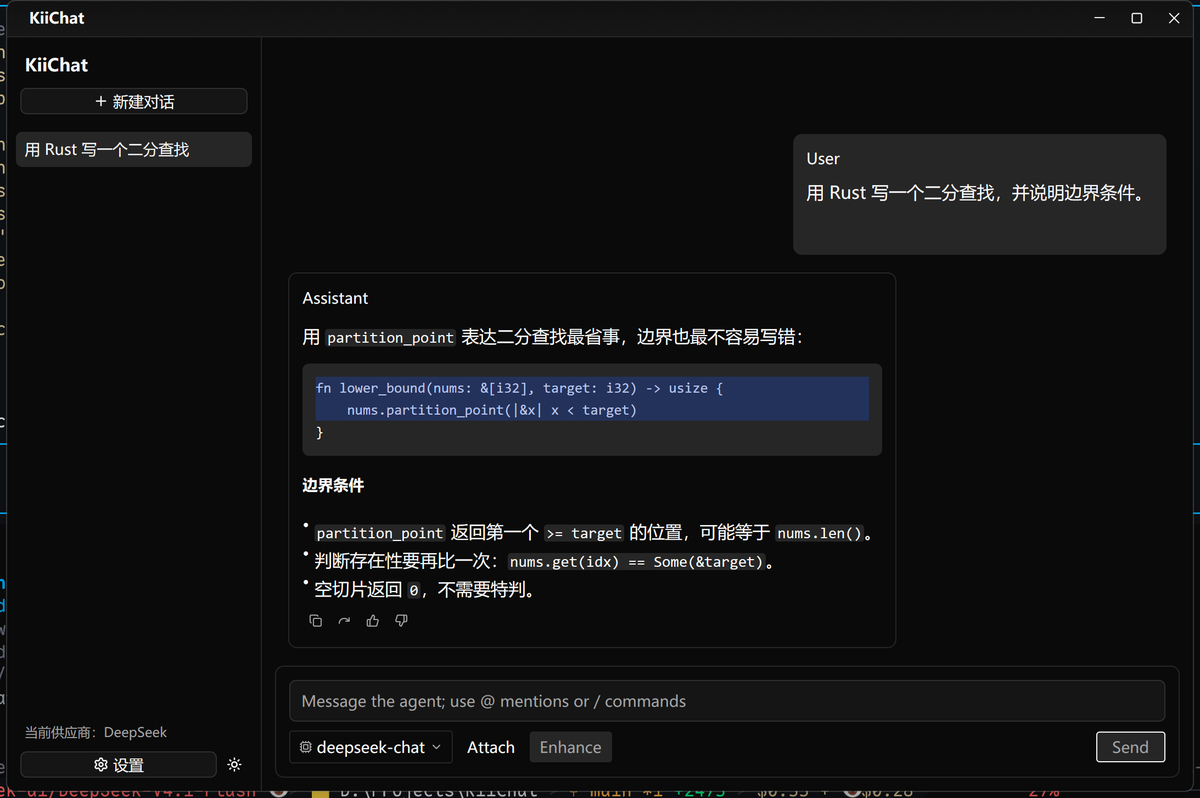
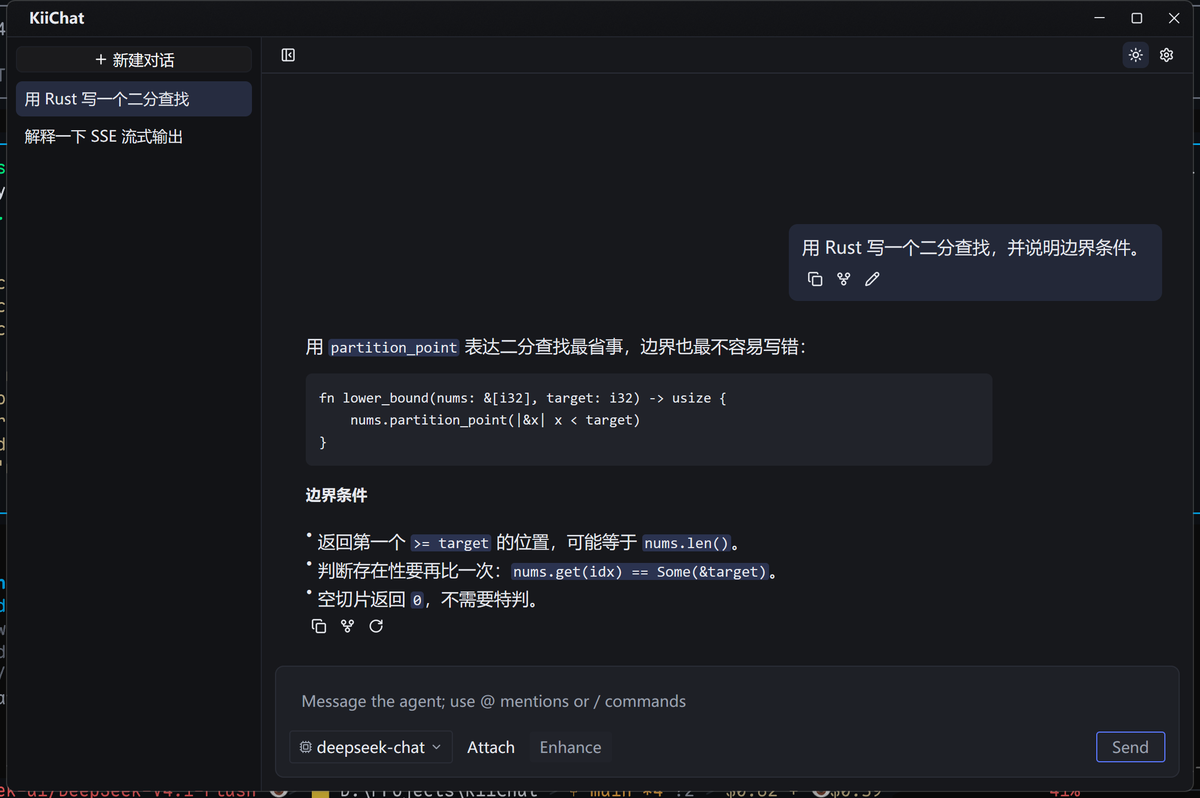
docs: refresh screenshots and describe the new shell

diff --git a/AGENTS.md b/AGENTS.md
@@ -12,16 +12,17 @@ binary, no server.
 
 ## Stack (do not mix versions)
 
-The UI stack is published as a set that moves together; mixing sets gives two
-incompatible copies of GPUI's types and fails to compile in confusing ways.
+The upstream UI stack is published as a set that moves together; mixing sets
+gives two incompatible copies of GPUI's types and fails to compile in confusing
+ways.
 
-| Crate | Cargo line | Role |
+| Crate | Cargo line | What this app uses from it |
 | --- | --- | --- |
-| `gpui-pre` | `gpui = { package = "gpui-pre", ... }` | Zed's GPUI, renamed so `use gpui::` works |
+| `gpui-pre` | `gpui = { package = "gpui-pre", ... }` | The framework; renamed so `use gpui::` works |
 | `gpui-pre-platform` | `gpui_platform = ...` | Window/application bootstrap per OS |
-| `gpui-component` | `gpui-component` | Theme, `Root`, `TitleBar`, Buttons, Inputs |
+| `gpui-component` | `gpui-component` | Theme + palette, `Root`, `TitleBar`, `Button`, `Input`, `TextView`, scroll helpers |
 | `gpui-kit-assets` | `gpui-component-assets = { package = "gpui-kit-assets", ... }` | Bundled Lucide icons |
-| `gpui-ai` | `gpui-ai` | `Chat` (virtualized transcript + composer), `PromptBar`, `StreamedContent` |
+| `gpui-ai` | `gpui-ai` | `PromptBar` (composer), `StreamingText` (streamed Markdown), `Orbs` (empty-conversation animation). Its `Chat` component is deliberately **not** used |
 
 Rules:
 
@@ -31,42 +32,75 @@ Rules:
 - `gpui_ai::init(cx)` once, before any window. It initializes gpui-component
   too, so never call `gpui_component::init` as well.
 - Every window's first-level view must be `gpui_component::Root`.
+- `gpui-ai`'s `Chat` was dropped because its message row is fixed: it always
+  renders a role heading, and its action row only offers
+  copy/regenerate/edit/feedback with icons. This app needs no role headings,
+  text actions (复制 / 分支 / 重试), a red 失败重试 state, and a branch action —
+  none of which the component exposes. The transcript is therefore built here.
 
 ## Layout
 
 ```
 src/main.rs    application bootstrap, window options, Root wiring
-src/app.rs     the whole view: sidebar, chat pane, settings page, streaming
-src/api.rs     OpenAI-compatible HTTP: /models, streaming /chat/completions
-src/store.rs   providers, sessions, messages, theme; JSON persistence
-scripts/       dev tooling: mock provider server, UI Automation helpers
+src/app.rs     the whole view: sidebar, transcript, composer, settings pages
+src/api.rs     OpenAI-compatible HTTP: /models, streaming /chat/completions, proxy modes
+src/icons.rs   asset source: the bundled icons plus the two glyphs they lack
+src/store.rs   providers, sessions, messages, theme, proxy; JSON persistence
+scripts/       dev tooling: fake provider server + UI Automation / capture helpers
 ```
 
 ## How the pieces fit
 
-- **The view owns all state.** `KiiChat` holds `Store` and hands `Chat` an
-  `Arc<[ChatMessage]>` snapshot. `gpui-ai` components render snapshots only.
-- **Message identity is the stored `Msg.id` (a uuid).** `Chat::set_messages`
-  silently ignores a snapshot with duplicate ids, so never synthesize ids from
-  indices.
+- **The view owns all state.** `KiiChat` holds `Store`; the transcript is a
+  `gpui::ListState` (variable-height rows, `FollowMode::Tail`) rendered by
+  `render_row`. No message snapshot type exists any more.
+- **Message identity is the stored `Msg.id` (a uuid).** Element ids derive from
+  it; never synthesize ids from indices alone.
 - **Streaming never runs on the UI thread.** `api::stream_chat` spawns a thread
   with its own current-thread tokio runtime (reqwest needs a tokio reactor;
   GPUI runs on smol) and pushes `StreamEvent`s over an `async_channel`. The UI
-  task consumes them via `update_in`, which is where the `&mut Window` needed
-  by `Chat::set_messages` comes from.
+  task consumes them via `update_in`.
+- **List invalidation is explicit.** A delta calls
+  `transcript.remeasure_items(row..row + 1)`; structural changes call
+  `sync_transcript`, which resets the item count and only follows the tail when
+  the reader is already at the tail (`force_follow` is for session switches and
+  sends).
+- **The list element needs an explicit size.** `list(...)` is a custom element:
+  without `.size_full()` it lays out to zero height and paints nothing.
 - **Persist on transitions, not on deltas.** `Store::save` after a send
-  completes, a session/provider changes, or the theme changes — never per SSE
-  chunk.
-- **Errors surface in the UI.** Failed assistant messages are stored with
-  `Msg.error`, rendered as a failed bubble, and marked `retryable(true)` so
-  Chat's Retry button reports `ChatEvent::RetryRequested`, which re-runs the
-  completion.
+  completes, a session/provider/theme/proxy changes — never per SSE chunk.
+- **Proxy modes are resolved per request** in `api::client`: `System` keeps
+  reqwest's default (env + OS proxy), `None` calls `.no_proxy()`, `Custom`
+  installs `reqwest::Proxy::all(url)`. An empty custom URL is an error, not a
+  silent fallback.
+- **Errors surface in the UI.** A failed reply is stored in `Msg.error`, shown
+  inside the bubble with a red border, and its retry action becomes a red
+  "失败重试" text button.
+- **Palette overrides must be re-applied after every theme change.**
+  `Theme::change` re-applies the active theme JSON, wiping color edits, so
+  `apply_theme` changes the mode first, then writes the palette into
+  `Theme::global_mut(cx).colors`, then `Theme::sync_base` + `window.refresh`.
+  Token order in `colors_of` and both palette arrays must stay in step.
+- **Two icons are embedded by this app.** The bundled component icon set is a
+  curated 101-glyph subset with no branch and no pencil, so `src/icons.rs`
+  wraps `gpui_component_assets::Assets` and serves `icons/kiichat-*.svg` from
+  string constants. GPUI rasterizes SVGs as alpha masks tinted with the text
+  color, so a stroke-based SVG needs no color handling. Reference them with
+  `Icon::empty().path(icons::GIT_FORK_PATH)`; `gpui_component::IconName` only
+  carries the curated set.
+- **Actions are icon-only square buttons** (`复制` / `分支` / `重试`, plus `编辑`
+  on user messages). Every icon-only control carries `.tooltip(...)` and
+  `.accessibility_label(...)`, which is also how the verification scripts find
+  it. A failed reply's retry grows a red `重试` label.
+- **Editing a user message re-sends it.** Saving the inline editor rewrites the
+  message, drops every reply after it, and launches a fresh completion.
 - **Client-side decorations.** The window is created from
-  `TitleBar::window_options()` and `KiiChat::render` emits `TitleBar` as the
-  first child. Without it the title bar disappears and the window cannot be
-  dragged.
-- **Layout guards.** The `Chat` host needs `.flex_1().min_h_0()`; text that
-  shrinks needs `.min_w_0()`.
+  `TitleBar::window_options()` and the root view emits `TitleBar` as its first
+  child. Without it the title bar disappears and the window cannot be dragged.
+  Controls placed *inside* the title bar receive no clicks (its drag region
+  covers them), so the sidebar / theme / page toggles live in the toolbar the
+  main pane renders above its content — visible on both pages and while the
+  sidebar is folded away.
 
 ## Conventions
 
@@ -84,58 +118,68 @@ cargo build                 # debug
 cargo run                   # launch the window
 cargo build --release       # shipped binary
 cargo clippy --all-targets  # must stay clean
-cargo test                  # unit tests (API URL/SSE parsing)
 ```
 
 Config lives at `%APPDATA%\KiiChat\config.json` (Windows),
-`~/.config/KiiChat/config.json` (Linux), `~/Library/Application Support/KiiChat/config.json`
-(macOS). Deleting it resets the app.
+`~/.config/KiiChat/config.json` (Linux),
+`~/Library/Application Support/KiiChat/config.json` (macOS). Deleting it resets
+the app.
 
 ## Verifying a change
 
-GPUI has no headless test harness for real frames here, so verify against the
-running app. Release builds cannot be verified by reasoning; launch it.
+GPUI has no headless frame test here, so verify against the running app. A clean
+compile proves nothing about layout.
 
 1. **Launch and read the accessibility tree** (Windows):
 
    ```powershell
-   powershell -ExecutionPolicy Bypass -File scripts/uia.ps1
+   powershell -ExecutionPolicy Bypass -File scripts/uia.ps1              # full tree
+   powershell -ExecutionPolicy Bypass -File scripts/buttons.ps1 -MinY 0  # buttons, decoded names
    ```
 
-   It prints control type, accessible name and geometry for every element, which
-   is enough to confirm panes, buttons, composer state and message rows exist.
+   `buttons.ps1` writes UTF-8 to `%TEMP%\kiichat-buttons.txt` because the
+   console mangles Chinese; read that file. It is the fastest way to confirm
+   that rows, actions and settings controls really rendered.
 
 2. **Drive it without a keyboard.** `scripts/invoke.ps1 -Name <label>` invokes a
-   named button through UI Automation (use `-NameB64` for Chinese labels to
-   dodge console encoding). Use it to exercise flows such as Retry.
+   named button through UI Automation (use `-NameB64` for Chinese labels, e.g.
+   `5aSx6LSl6YeN6K+V` is 失败重试 — the base64 of the UTF-8 name).
+   `scripts/click.ps1 -X -Y` synthesizes a real click and sets DPI awareness
+   first; without that a 200%-scaled desktop aims at half the intended point.
 
 3. **Exercise the network path against a fake provider**:
 
    ```sh
-   python scripts/mock_openai.py      # serves /v1/models and a streaming completion on 127.0.0.1:18080
+   python scripts/mock_openai.py   # /v1/models plus a streaming completion on 127.0.0.1:18080
    ```
 
    Point a provider's Base URL at `http://127.0.0.1:18080/v1`, then check the
    server log for the request and `%APPDATA%\KiiChat\config.json` for the
-   persisted streamed answer — that is proof the whole path ran.
+   persisted streamed answer.
 
-4. **Screenshots** (visual confirmation):
+4. **Verify visually without eyes.** Capture, then measure:
 
    ```powershell
-   powershell -ExecutionPolicy Bypass -File scripts/capture.ps1
+   powershell -ExecutionPolicy Bypass -File scripts/capture.ps1 -Out D:/tmp/shot.png
    ```
+
+   The capture is the window at its true pixel size (the script sets DPI
+   awareness), while UI Automation reports *screen* coordinates — subtract the
+   window origin before sampling a control's pixels. Compare mean luminance
+   between light and dark frames, and check a specific rect's pixels for the
+   expected ink (a red retry label, a pale blue bubble).
 
 Hard rules for verification:
 
 - Never claim a UI change works from a clean compile alone.
 - Never leave `target/kiichat.exe` locked: stop the running app before rebuilding.
-- The app writes to the real user config; if you seed it for a test, say so and
-  restore or delete it afterwards.
+- The app writes to the real user config. If you seed it for a test, say so and
+  restore the previous file afterwards.
 
 ## Repository hygiene
 
 - `target/` must never be tracked (`git ls-files | grep -c '^target/'` is 0).
-- Keep commits scoped and written as `type: summary` (`feat:`, `fix:`, `docs:`,
-  `chore:`).
+- Commit after each verified change, as `type: summary` (`feat:`, `fix:`,
+  `docs:`, `chore:`), and push.
 - Keep README's feature list and the GitHub description/topics in sync with what
   the app actually does.

diff --git a/README.md b/README.md
@@ -11,13 +11,23 @@
 
 </details>
 
+<details>
+<summary>设置 · 模型</summary>
+
+![设置页](docs/screenshot-models.png)
+
+</details>
+
 ## 功能
 
-- **供应商管理**：填写 Base URL 与 API Key，点一次「获取模型」从 `{base_url}/models` 拉取模型列表；可保存多个供应商，竖向列表切换，随时「设为当前」。
+- **模型供应商**：填写 Base URL 与 API Key，点一次「获取模型」从 `{base_url}/models` 拉取模型列表；竖向列表维护多个供应商，随时切换「当前」。
 - **会话管理**：左侧竖向会话列表，新建 / 切换 / 删除，标题自动取自第一条消息。
-- **流式对话**：SSE 逐字输出，Markdown 渲染（含代码块高亮）；消息可复制、就地编辑、重新生成；失败的消息带「重试」按钮，失败原因直接显示在气泡里。
-- **深浅色主题**：一键切换并持久化。
-- **自绘标题栏**：无系统边框，窗口控件与主题配色一致。
+- **流式对话**：SSE 逐字输出，Markdown 渲染（含代码块高亮）；消息下方的方形图标按钮提供「复制 / 分支 / 重试」，用户消息另外可以「编辑」并重发。回复失败时重试按钮会展开成红色的「重试」，失败原因直接显示在气泡里。
+- **折叠侧边栏**：一键收起会话列表，专注当前对话，状态会记住。
+- **分支会话**：以任意一条消息为起点分叉出一个新会话，原会话保持不变。
+- **代理设置**：跟随系统（读系统与环境变量）、不使用代理、自定义代理（例如 `http://127.0.0.1:7890`）三选一。
+- **深浅色主题**：一键切换并持久化，使用 DeepSeek 官网风格的浅蓝配色。
+- **自绘标题栏**：无系统边框，窗口控件与主题配色一致；窗口标题只在标题栏出现，侧边栏不再重复。
 - **纯本地**：全部状态存于一个 JSON 文件，没有服务端、没有账号、没有遥测。
 - **单文件二进制**，启动即用。
 
@@ -41,10 +51,11 @@ cargo run --release
 
 ## 使用
 
-1. 左下角点「设置」→ 供应商 → 「添加供应商」，填名称、Base URL、API Key。
+1. 左下角点「设置」，进入 **模型** 分项，点「添加供应商」，填名称、Base URL、API Key。
    Base URL 填接口根地址即可，例如 `https://api.openai.com/v1`；只填 `https://api.deepseek.com` 会自动补上 `/v1`。
 2. 点「获取模型」拉取该接口的模型列表，再点「保存」。
 3. 回到对话，在输入框左下角选择模型，输入内容后回车发送。
+4. 网络需要代理时，到 **网络** 分项选择「自定义代理」并填地址（如 `http://127.0.0.1:7890`），点「应用」。
 
 ## 兼容性
 
@@ -59,7 +70,8 @@ cargo run --release
 
 - 只有对话：没有工具调用、图片、文件附件、语音。
 - 不显示 reasoning / 思考过程，只渲染最终回答。
-- 没有系统提示词、temperature 等参数的自定义。
+- 没有系统提示词、temperature 等参数的自定义；不发多轮以外的上下文。
+- 分支只是复制已有消息到新会话，不共享后续对话。
 - 单窗口；会话历史整体存在一个 JSON 文件里，不会分页或归档。
 
 ## 开发
@@ -72,20 +84,20 @@ cargo run                    # 启动窗口
 cargo clippy --all-targets   # 静态检查
 ```
 
-`scripts/` 下是开发期工具，用于在没有键盘/鼠标时验证界面：
+`scripts/` 下是开发期工具，用于在没有键盘、看不到画面的情况下验证界面：
 
 - `scripts/mock_openai.py`：假的 OpenAI 兼容服务（`127.0.0.1:18080`），用于端到端验证流式对话与模型拉取。
-- `scripts/uia.ps1`：打印窗口的无障碍树（控件类型、名称、位置），确认界面真的渲染出来了。
-- `scripts/invoke.ps1`、`scripts/click.ps1`：通过 UI Automation 或合成点击驱动按钮。
-- `scripts/capture.ps1`：截取窗口截图。
+- `scripts/uia.ps1` / `scripts/buttons.ps1`：打印窗口的无障碍树 / 按钮清单（名称、位置），确认界面真的渲染出来了。
+- `scripts/invoke.ps1`、`scripts/click.ps1`：通过 UI Automation 调用按钮，或做 DPI 感知的合成点击。
+- `scripts/capture.ps1`：按窗口实际像素截图（配 `PIL` 可做颜色验证）。
 
 ## 技术栈
 
 | 部分 | 选型 |
 | --- | --- |
 | UI 框架 | GPUI（Zed 发布快照 `gpui-pre`）+ `gpui-pre-platform` |
-| 控件与主题 | `gpui-component`（`Root`、`TitleBar`、Button、Input、主题令牌） |
-| 对话界面 | `gpui-ai`（`Chat` 虚拟化transcript、`PromptBar` 输入框、流式 Markdown） |
+| 控件与主题 | `gpui-component`（`Root`、`TitleBar`、Button、Input、主题令牌、`TextView`） |
+| 对话界面 | `gpui-ai` 的 `PromptBar`（输入框）与 `StreamingText`（流式 Markdown）；气泡、消息动作、会话列表由本项目自己实现 |
 | 网络 | `reqwest` + 独立线程上的 tokio 运行时，SSE 分片经 `async-channel` 回传 UI |
 | 存储 | `serde` + `serde_json`，原子写入单个配置文件 |
 
